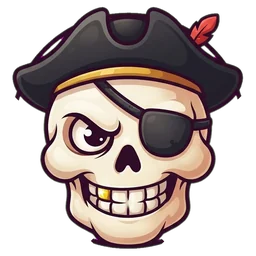
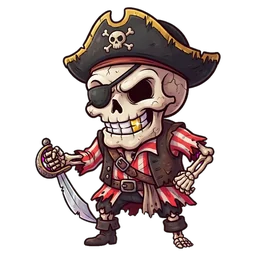
Acción automática: Archivos descomprimidos

diff --git a/js/version.js b/js/version.js
@@ -1,5 +1,5 @@
 // Versión de Juegos Reunidos. Se muestra al pie de ⚙ Ajustes.
 // Al publicar cambios: sube el número aquí y añade una entrada en «Historial de versiones» del README.md.
 // MAYOR (cambios grandes en toda la app) · MENOR (juegos o funciones nuevas) · PARCHE (arreglos)
-export const VERSION = '3.43.0';
+export const VERSION = '3.43.1';
 export const FECHA = '2026-11-02';

diff --git a/sw.js b/sw.js
@@ -1,6 +1,6 @@
 // Service worker: guarda la app en caché para que funcione sin conexión.
 // La lista de archivos y VERSION se regeneran con:  python tools/generar_sw.py
-const VERSION = 'jr-517aa72506';
+const VERSION = 'jr-09990d960d';
 const ARCHIVOS = [
 /*ARCHIVOS-INICIO*/
 './',

diff --git a/README.md b/README.md
@@ -166,6 +166,7 @@ Formato MAYOR.MENOR.PARCHE: MAYOR = cambios grandes en toda la app · MENOR = ju
 | **3.6.0** | 23/10/2026 | 🎨 **Marca y menús unificados**: nueva capa `css/marca.css` (botones, tarjetas, tipografías y menú de partida iguales en todos los juegos; guía en `docs/MARCA.md`), logo en Inicio y filas de jugador comunes. 🗂 **Juegos agrupados**: Parchís + Oca, Ajedrez + Damas, Texas Hold'em + Póker cubierto y Sopa de letras + Crucigramas son una sola ficha en Inicio con ventana para elegir (cada juego conserva su partida y sus estadísticas). Worms con el mismo menú que el resto. |
 | **3.42.0** | 02/11/2026 | 🪃 Catapulta: **20 pantallas** (15 nuevas, de dificultad creciente y con todos los materiales y pájaros), **enemigos al 70 %** de su tamaño (imagen y hitbox) para que quepan en las estructuras, **menú de lanzamiento más pequeño** (ya no tapa el menú inferior; ángulo y fuerza se leen dentro del propio círculo) y **pantalla de juego más ancha**. Estrellas recalibradas con el simulador. |
 | **3.43.0** | 02/11/2026 | Arcade vuelve a 8 fichas (2×4): **Serpiente & Vuela Alto** se agrupan en una ficha con ventana emergente, como Partxis & Oca. 🪃 Catapulta: marcador superior más compacto (Nivel, Puntos y Enemigos) para que quepan 5–6 iconos de Disparos, y menú de disparo con el cuarto de círculo a la izquierda y Habilidad / Lanzar apilados a la derecha (el menú flotante admite ahora solo botones del lado derecho). |
+| **3.43.1** | 02/11/2026 | 🪃 Catapulta: nueva imagen del enemigo del tema Piratas (esqueleto pirata), recortada con el mismo proceso que el resto. |
 | 3.5.1 | 23/10/2026 | 🪱 Worms: los avatares de Apariencia se ven sólidos (sobre un disco blanco con el color del equipo), el salto alto se puede dirigir (recto, o inclinado si mantienes ◀ ▶) y en el aire ◀ ▶ empujan al gusano; botones inferiores (Pasar turno, Nueva partida, Apariencia, Salir) y menú de ajustes sin fondo de imagen. 🎱 Billar: nueva **bola de efecto** en el panel de tiro para elegir dónde das a la blanca (alto: sigue tras el choque · bajo: retrocede · izquierda/derecha: efecto lateral que cambia el rebote en banda). |
 | 3.5.0 | 23/10/2026 | 🪱 **Worms** (Arcade, juego 40 y último): ver la descripción de arriba. Nuevos tapetes-escenario (Bosque, Ciudad, Estadio, Desierto, Espacio, Infierno, Lago y Medieval; ahora 20 en total) disponibles en «Tapetes» y «Fondo de Tablero» de todos los juegos. Nuevos sonidos (explosión, disparo, chapuzón…). Se retira una carpeta sobrante del Minigolf. |
 | 3.4.0 | 23/10/2026 | 🔡 **Scrabble** (Palabras, juego 39): tablero clásico de premios, 100 fichas en español con CH/LL/RR y comodines, de 2 a 4 jugadores contra la CPU (Fácil, Medio, Difícil) o entre personas, vista previa de palabras y puntos antes de jugar, pista, cambiar fichas, historial de jugadas y 🎨 Apariencia (fondo con todos los tapetes, tablero, fichas y rótulos). |
